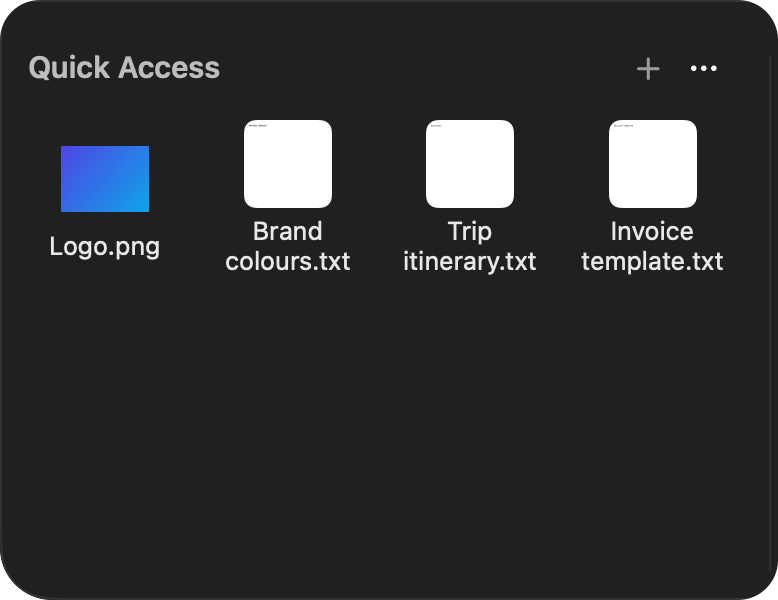
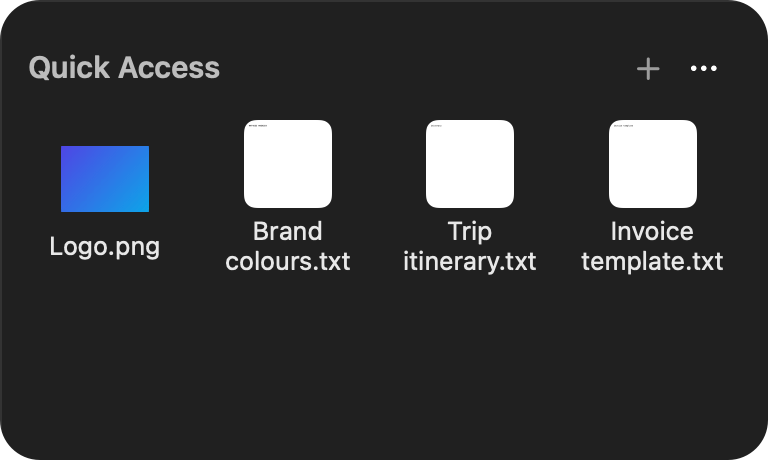
README pictures: Quick Access and Notes panels cut to the same size, with less empty space

diff --git a/docs/images/make-panels.swift b/docs/images/make-panels.swift
@@ -4,11 +4,11 @@ import AppKit
 
 let root = URL(fileURLWithPath: CommandLine.arguments[0]).deletingLastPathComponent()
 let source = NSBitmapImageRep(data: try! Data(contentsOf: root.appendingPathComponent("drawer.png")))!
-// Pixel rectangles in the 3840 x 600 render (the drawer is 1920 pt wide at 2x).
+// Pixel rectangles in the 3840 x 600 render (the drawer is 1920 pt wide at 2x). Quick Access and Notes share one size so they sit evenly side by side in the README table.
 let panels: [(String, CGRect)] = [
-    ("drawer-quick-access.png", CGRect(x: 0, y: 0, width: 778, height: 600)),
+    ("drawer-quick-access.png", CGRect(x: 0, y: 0, width: 768, height: 460)),
     ("drawer-clipboard.png", CGRect(x: 790, y: 0, width: 1500, height: 600)),
-    ("drawer-notes.png", CGRect(x: 3100, y: 0, width: 740, height: 600)),
+    ("drawer-notes.png", CGRect(x: 3072, y: 0, width: 768, height: 460)),
 ]
 for (name, r) in panels {
     let w = Int(r.width), h = Int(r.height)
